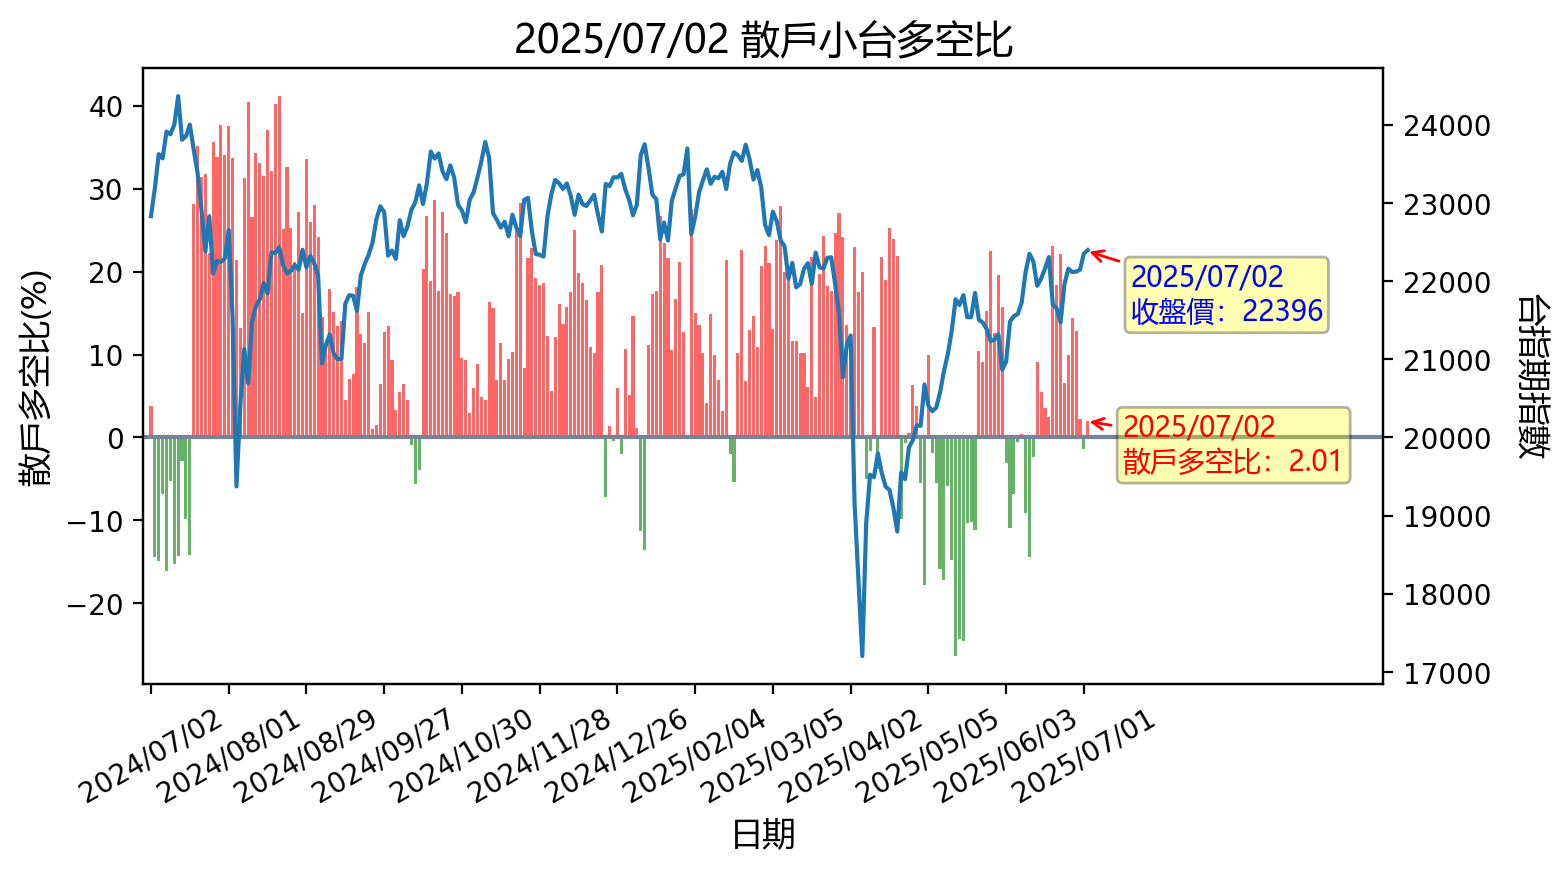
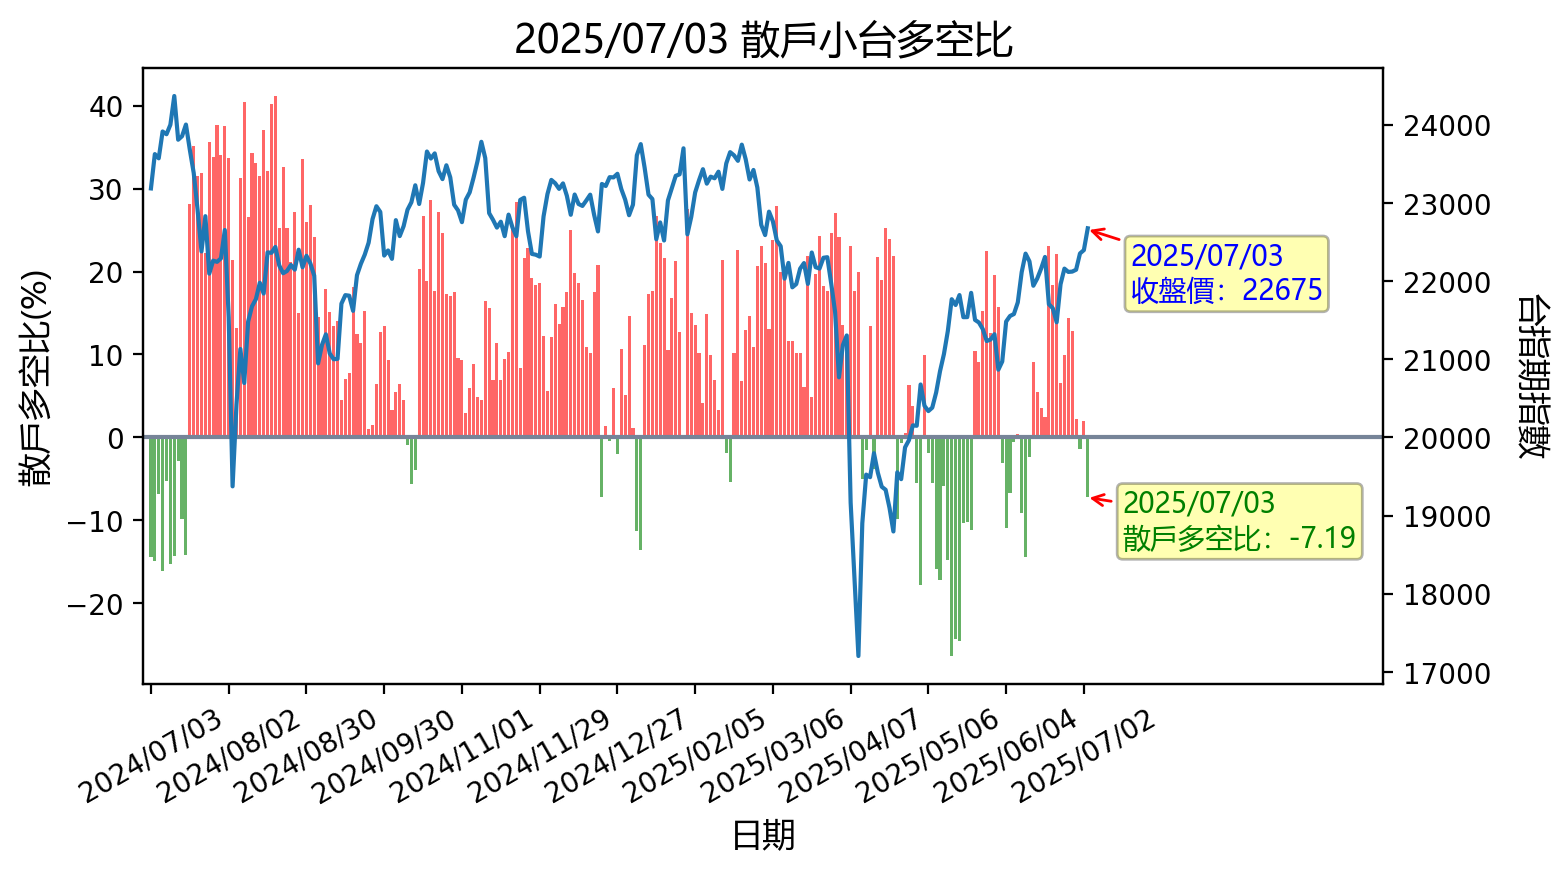
更新時間: Thu Jul  3 16:41:42 CST 2025

diff --git a/README.md b/README.md
@@ -1,12 +1,12 @@
-## 20250702 台指期「預估換倉成本」
+## 20250703 台指期「預估換倉成本」
 ![](images/txfcost.png)
 
-## 20250702 台指期「散戶小台多空比」
+## 20250703 台指期「散戶小台多空比」
 ![](images/bbiri.png)
 
-## 20250702 台指選擇權「Put/Call Ratios」
+## 20250703 台指選擇權「Put/Call Ratios」
 ![](images/pcratio.png)
 
-## 20250702 台指期「大額交易人」
+## 20250703 台指期「大額交易人」
 ![](images/blocktrade.png)
 
